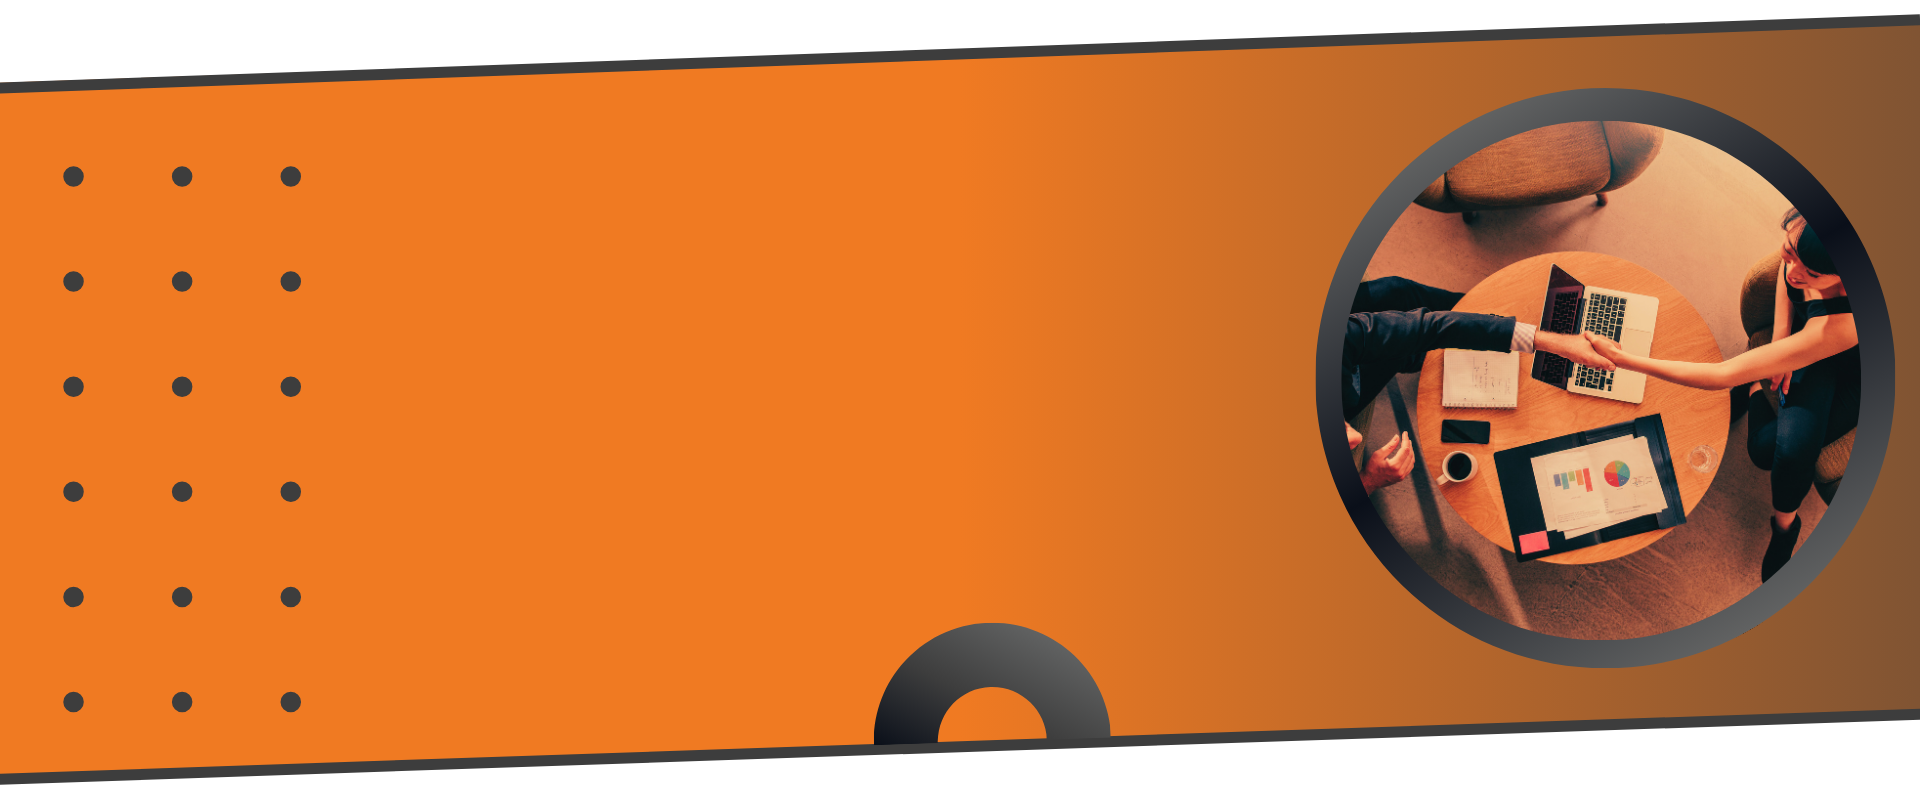
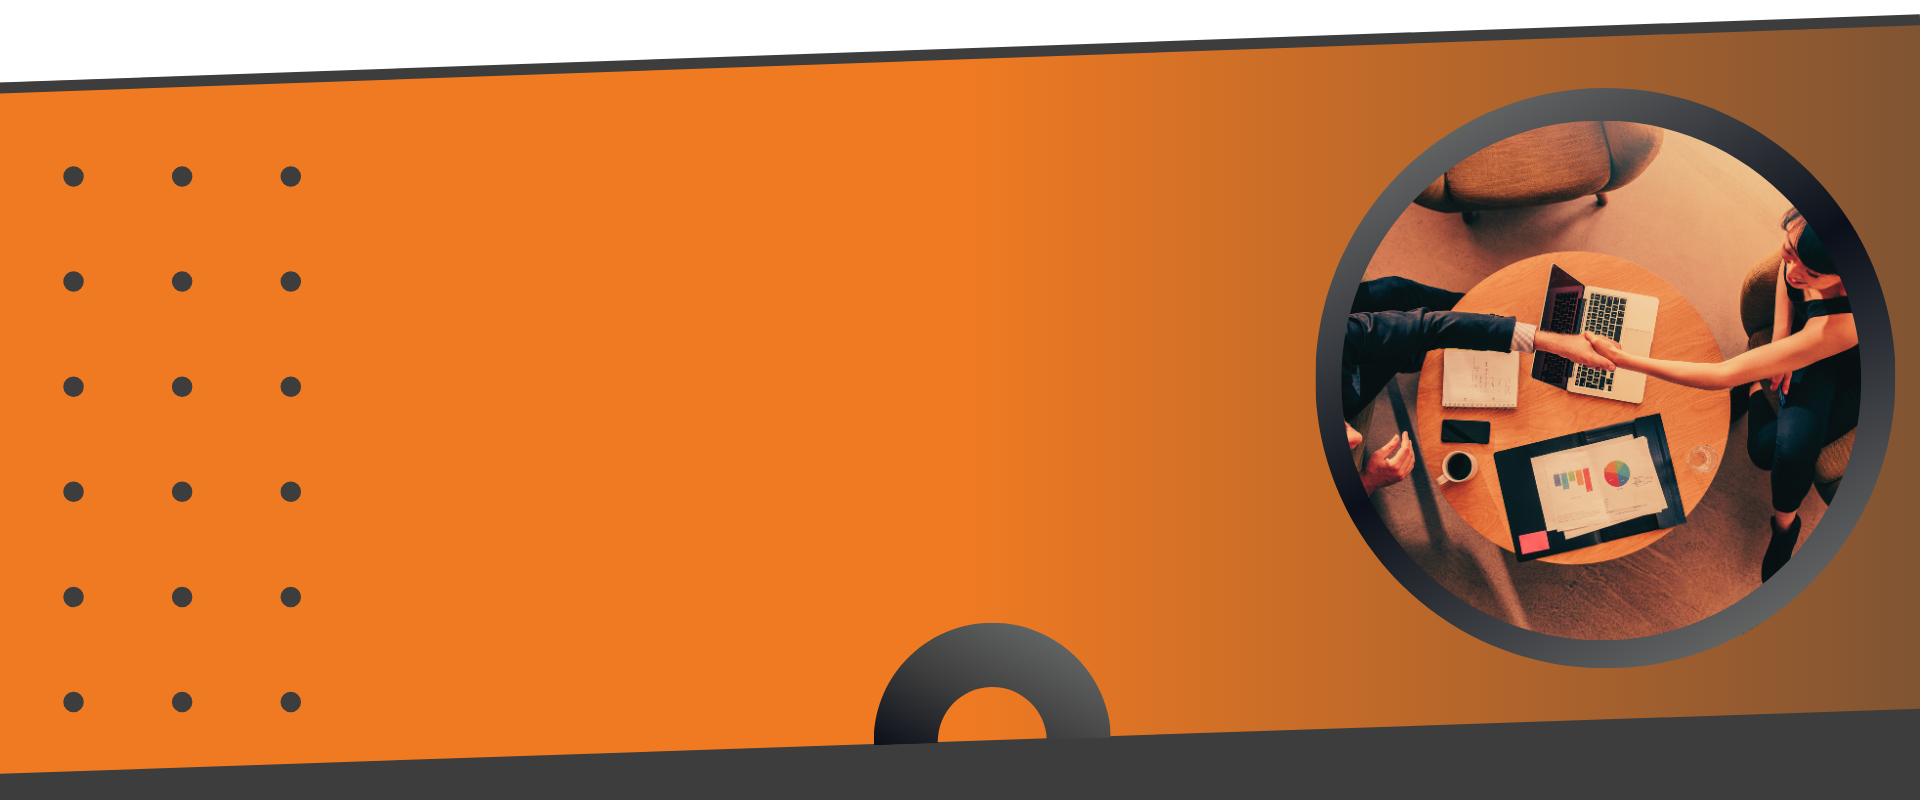
implemented footer

Changed region(s): [[0.0, 0.875, 1.0, 1.0]]

diff --git a/src/components/footer/footer.css b/src/components/footer/footer.css
@@ -1,0 +1,125 @@
+.footer__padding {
+    padding: 2rem 5rem;
+}
+
+.webdefend__footer {
+    /* In combination with FooterOverlay.css: webdefend__footerOverlay correctly positions background */
+    width: 100%;
+    position: relative;
+    z-index: 1;
+    display: flex;
+    justify-content: flex-start;
+    align-items: center;
+    flex-direction: column;
+    padding-top: 0;
+    font-family: var(--font-main);
+}
+
+.webdefend__footer-links {
+    width: 100%;
+    display: flex;
+    /*Allows responsive space between divs*/
+    justify-content: space-between;
+    align-items: flex-start;
+    margin-top: 1rem;
+    padding:  0 2rem;
+}
+
+.webdefend__footer-links_contact, 
+.webdefend__footer-links_logo,
+.webdefend__footer-links_work,
+.webdefend__footer-links-quicklinks {
+    /* Allows divs to take equal amount of space*/
+    flex: 1;
+    margin: 1rem;
+    text-align: center;
+    color: var(--color-bg);
+}
+
+.webdefend__footer-links_work, .webdefend__footer-links_contact p {
+    font-family: var(--font-main);
+}
+
+.webdefend__footer-links-quicklinks > p {
+    margin-bottom: 1rem; 
+}
+
+.webdefend__footer-links-quicklinks a:hover {
+    color: var(--color-orangetext);
+}
+
+.webdefend__footer-links_contact > p {
+    margin-bottom: 1rem;
+}
+
+.webdefend__footer-links_logo {
+    font-family: var(--font-main);
+}
+
+.webdefend__footer-links_logo img:first-child {
+    width: 270px;
+    margin-bottom: 0.75rem;
+}
+
+/*Add style to every 2nd p tag*/
+.webdefend__footer-links_work p:nth-child(2n + 1) {
+    margin-bottom: 1rem;
+}
+
+.webdefend__footer-headtext {
+    font-family: var(--font-main);
+    color: var(--color-orangetext);
+    font-weight: 400;
+    letter-spacing: 0.04em;
+    font-size: 32px;
+    line-height: 41.6px;
+    margin-bottom: 1rem;
+}
+
+.footer__copyright {
+    padding-top: 1rem;
+    padding-bottom: 1rem;
+    font-family: var(--font-main);
+    background-color: #2c2c2c;
+    color: var(--color-bg);
+    text-align: center;
+    
+}
+
+@media screen and (min-width: 2000px) {
+    .webdefend__footer-headtext {
+        font-size: 51px;
+        line-height: 61px;
+    }
+
+}
+
+@media screen and (max-width: 1150px) {
+    /* align center + flex direction column is optimal for mobile div positioning*/
+    .webdefend__footer-links {
+        align-items: center;
+        flex-direction: column;
+        padding: 0;
+    }
+
+    .webdefend__footer-links_contact, 
+    .webdefend__footer-links_logo,
+    .webdefend__footer-links_work {
+       margin: 2rem 0;
+       width: 100%; 
+    }
+}
+
+@media screen and (max-width: 650px) {
+    .webdefend__footer {
+        padding:  0 0 2rem 0;
+    }
+    
+}
+
+@media screen and (max-width: 350px) {
+    .webdefend__footer-links_logo img:first-child {
+        width: 80%;
+    }
+    
+}

diff --git a/src/components/footer/Footer.jsx b/src/components/footer/Footer.jsx
@@ -1,0 +1,49 @@
+import React from 'react';
+import { images } from '../../constants';
+import "./footer.css";
+
+const Footer = () => {
+  return (
+    <div className="test">
+      <div className="webdefend__footer footer__padding">
+        <div className="webdefend__footer-links">
+          <div className="webdefend__footer-links_logo">
+            <img src={images.logoFooter} alt="footer_logo" />
+          </div>
+          <div className="webdefend__footer-links_logo">
+            <div className="webdefend__footer-links-quicklinks">
+              <h1 className="webdefend__footer-headtext">Quick Links</h1>
+              <p>
+                <a href='#home'>Home</a>
+              </p>
+              <p>
+                <a href='#services'>Services</a>
+              </p>
+              <p>
+                <a href='#about'>About Us</a>
+              </p>
+              <p>
+                <a href='#contact'>Contact Us</a>
+              </p>
+            </div>
+          </div>
+          <div className="webdefend__footer-links_work">
+            <h1 className="webdefend__footer-headtext">Working Hours</h1>
+            <p>Monday - Friday:</p>
+            <p>9:30 am - 5pm</p>
+            <p>Saturday:</p>
+            <p>Appointment Only</p>
+            <p>Sunday:</p>
+            <p>Closed</p>
+          </div>
+        </div>
+        
+      </div>
+      <div className="footer__copyright">
+          <p >© 2023 Webdefend. All Rights Reserved</p>
+      </div>
+    </div>
+  )
+}
+
+export default Footer

diff --git a/src/constants/images.js b/src/constants/images.js
@@ -10,6 +10,9 @@ import featureGraphic2 from '../components/assets/stat2.png';
 import featureGraphic3 from '../components/assets/stat3.png';
 import telephoneIcon from '../components/assets/telephone.png';
 import emailIcon from '../components/assets/email.png';
+import logoFooter from '../components/assets/logofooter.png';
+import telephoneFooter from '../components/assets/telephonefooter.png';
+import emailFooter from '../components/assets/emailfooter.png';
 
 const assets = {
     logo,
@@ -24,6 +27,9 @@ const assets = {
     featureGraphic3,
     telephoneIcon,
     emailIcon,
+    logoFooter,
+    telephoneFooter,
+    emailFooter,
     
 };
 

diff --git a/src/App.js b/src/App.js
@@ -1,19 +1,22 @@
 import React from 'react';
 
-import { Navbar, Header, Services, Aboutus, Features, Contact } from "./components";
+import { Navbar, Header, Services, Aboutus, Features, Contact, Footer } from "./components";
 import "./App.css";
 
 const App = () => {
   return (
     <div className='App'>
-      <div className='gradient__bg'>
-        <Navbar />
-        <Header />
-      </div>
+      
+      <Navbar />
+      <Header />
       <Services />
       <Aboutus />
       <Features />
-      <Contact />
+      <div className='colour__bg'>
+
+        <Contact />
+        <Footer />
+      </div>
     </div>
   )
 }

diff --git a/src/components/contact/contact.css b/src/components/contact/contact.css
@@ -10,6 +10,7 @@
     background-repeat: no-repeat;
     justify-content: center;
     height: 800px;
+    
 }
 
 .webdefend__contact-container {
@@ -63,6 +64,10 @@
     align-items: center;
     justify-content: center;
     margin: 0 7rem; 
+}
+
+.webdefend__contact-bottom-bg {
+    background-color: var(--color-lightgrey);
 }
 
 @media screen and (max-width: 1150px ) {

diff --git a/src/components/contact/Contact.jsx b/src/components/contact/Contact.jsx
@@ -6,7 +6,6 @@ const Contact = () => {
   return (
     <div className="webdefend__contact-banner contact__section-padding" id="contact">
      <div className="webdefend__contact-container">
-      
       <div className="webdefend__contact-container-text">
         <div className="webdefend__contact-title">
           <p>Contact Us</p>

diff --git a/src/components/index.js b/src/components/index.js
@@ -4,3 +4,4 @@ export { default as Services } from "./services/Services";
 export { default as Aboutus } from "./aboutus/Aboutus";
 export { default as Features } from "./features/Features";
 export { default as Contact } from "./contact/Contact";
+export { default as Footer } from "./footer/Footer";

diff --git a/src/App.css b/src/App.css
@@ -14,8 +14,8 @@ a {
   text-decoration: none;
 }
 
-.gradient__bg {
-  background: var(--color-bg);
+.colour__bg {
+  background-color: var(--color-lightgrey);
 }
 
 .parrallax__bg {
